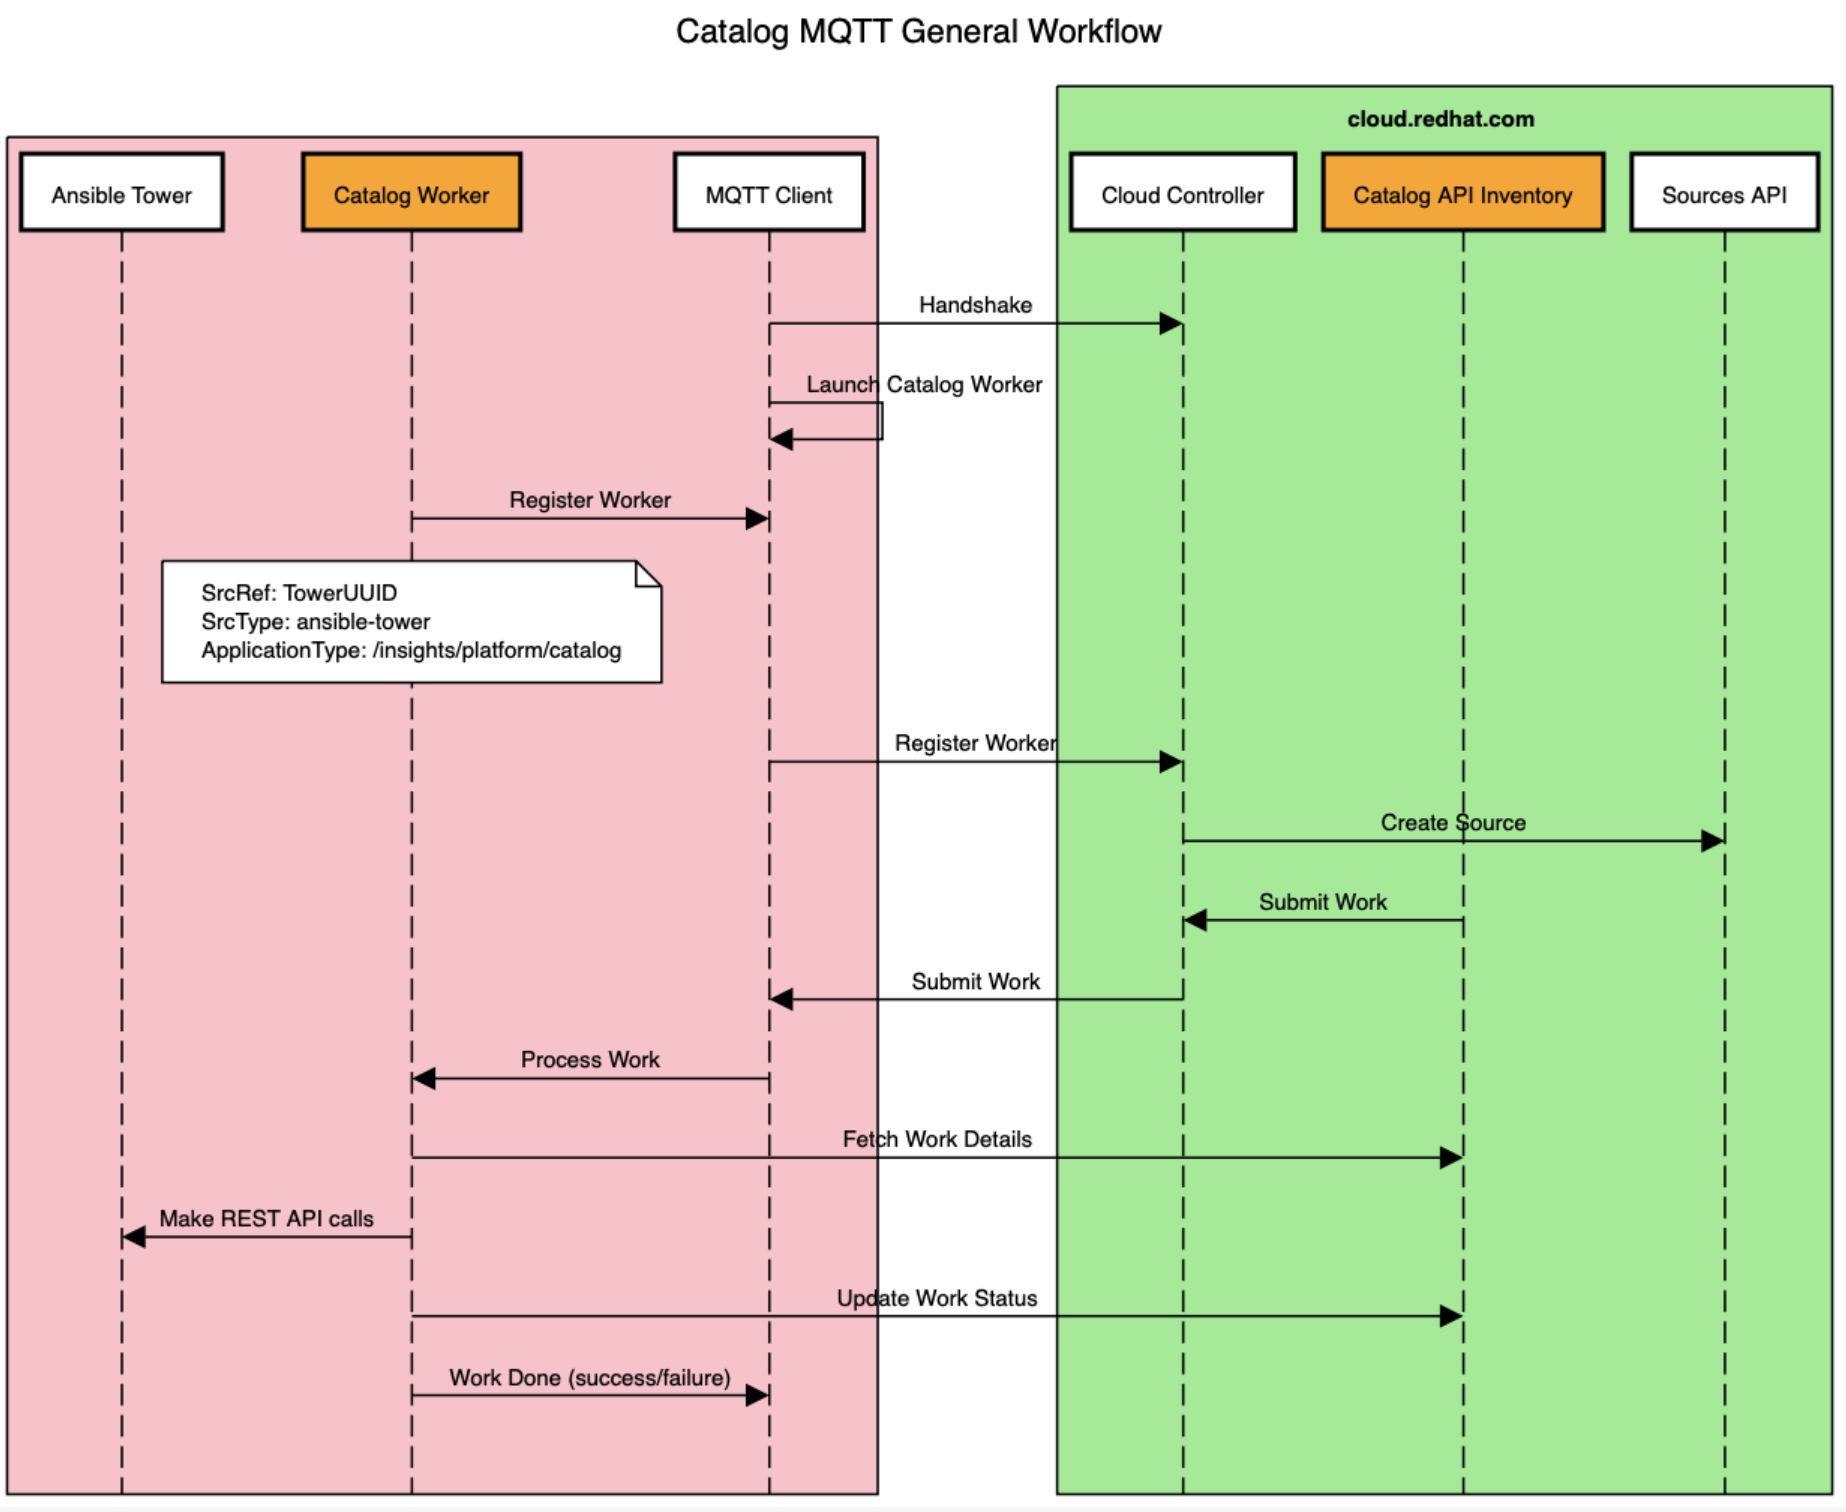
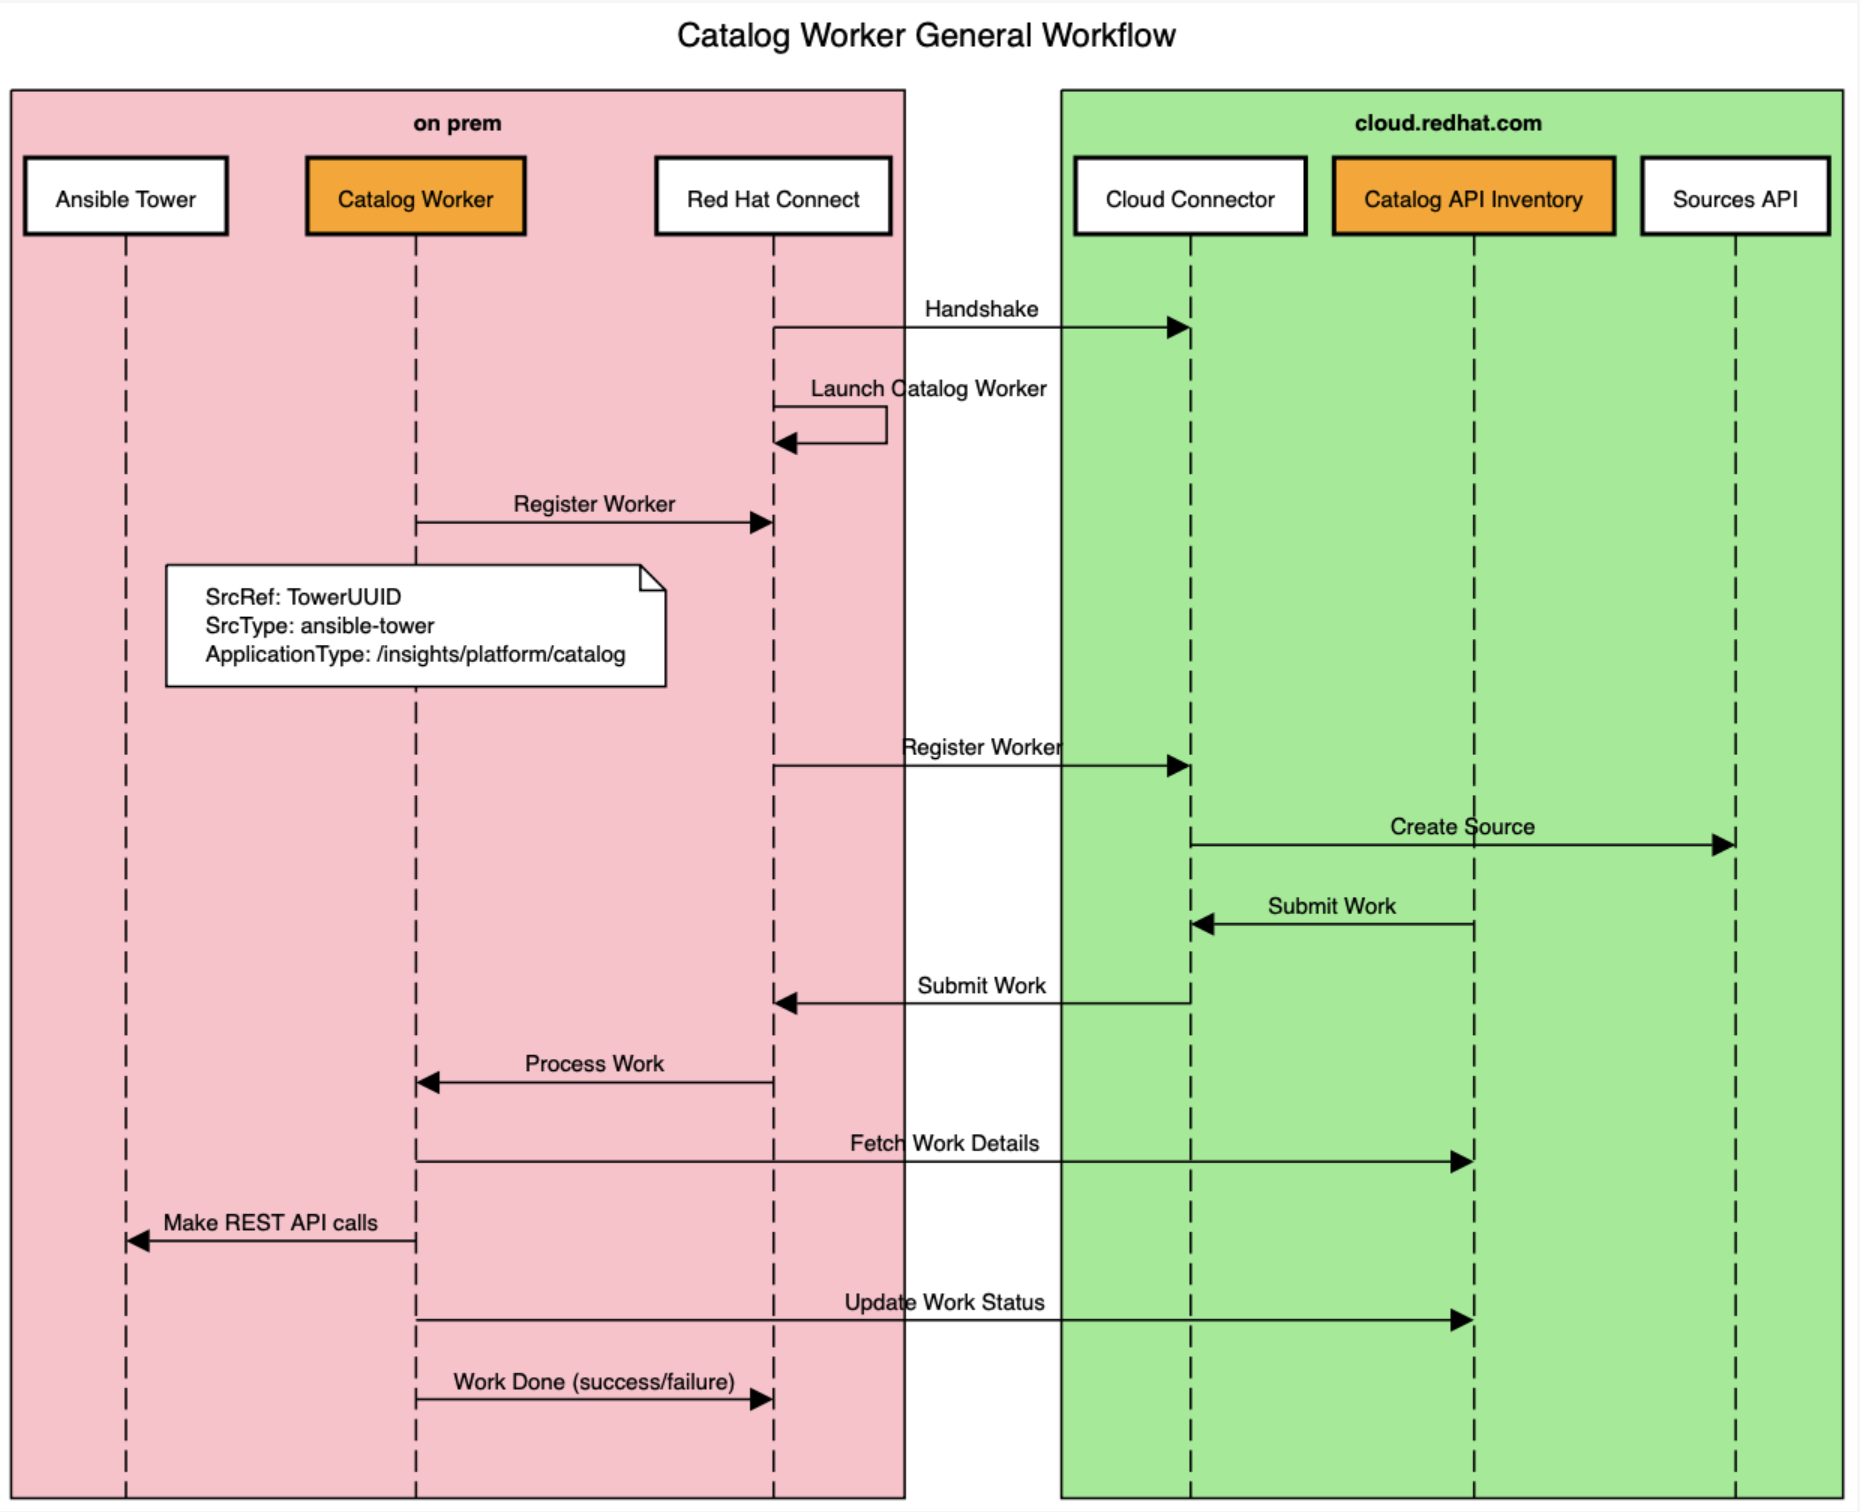
Changed to refer to RHC

diff --git a/README.md b/README.md
@@ -1,12 +1,12 @@
 # Catalog Worker
 
-The Catalog Worker runs under the aegis of Redhat MQTT Client (yggdrasil). It can be run in a vm or container and talks to an on-prem Ansible Tower. It can
+The Catalog Worker runs under the aegis of Red Hat Connect (rhc). It can be run in a vm or container and talks to an on-prem Ansible Tower. It can
 * Collect inventory objects from Ansible Tower
 * Launch and monitor jobs on Ansible Tower.
 
-The Redhat MQTT Client (RMC) subscribes to a specific topic on the cloud controller based on its
-unqiue guid. When a task needs to be done on the client the cloud controller sends a small message
-packet to the RMC which transfers the message to the Catalog Worker via GRPC. The message includes the url to get the task details, a date time stamp and the kind of task.
+The Red Hat Connect (rhc) subscribes to a specific topic on the Cloud Connector based on its
+unqiue guid. When a task needs to be done on the client the Cloud Connector sends a small message
+packet to the RHC which transfers the message to the Catalog Worker via GRPC. The message includes the url to get the task details, a date time stamp and the kind of task.
 ```json
 {
     "url": "http://cloud.redhat.com/api/catalog-inventory/v3.0/tasks/xxxx",
@@ -74,11 +74,3 @@ The list of objects needed by catalog are
 General Workflow
 
 ![Alt UsingUploadService](./docs/catalog_worker.png?raw=true)
-
-
-For Inventory Collection
-![Alt UsingUploadService](./docs/cat_mqtt1.png?raw=true)
-
-For Single Job 
-
-![Alt DirectTaskUpdate](./docs/cat_mqtt2.png?raw=true)
